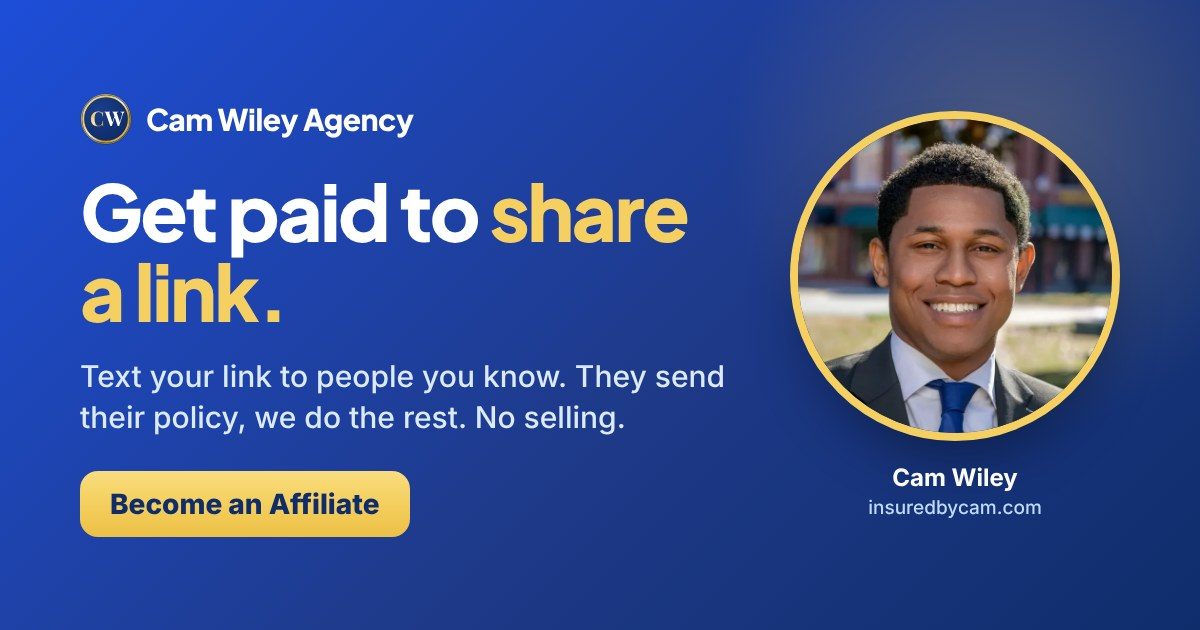
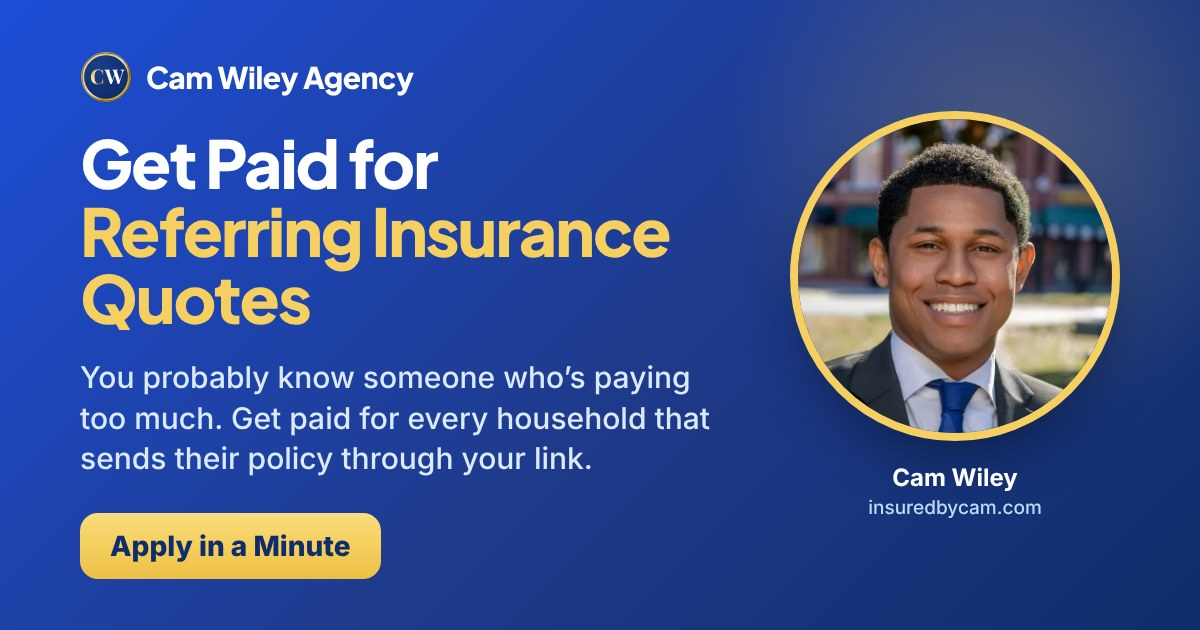
Affiliates share card matches the page: heading, body and Apply in a Minute
Claude-Session: https://claude.ai/code/session_01ALNZAc94dnod2U2WV7PUZi

Changed region(s): [[0.0617, 0.0603, 0.5858, 0.5429], [0.0617, 0.573, 0.6167, 0.9349]]

diff --git a/vite.config.js b/vite.config.js
@@ -6,17 +6,18 @@ import { resolve } from 'node:path';
 
 // Link previews (iMessage, Facebook) read the HTML before any JavaScript runs, so every
 // route shows index.html's share card. Pages that need their own card get a copy of the
-// built index.html with its own title, description and image, served by a rewrite in
+// built index.html with its own title, description and image (matching the page's
+// hero copy; update both if the hero changes), served by a rewrite in
 // vercel.json (e.g. /affiliates → /affiliates.html). Same app, different preview.
 const SITE = 'https://insuredbycam.com';
 const SHARE_PAGES = [
   {
     file: 'affiliates.html', path: '/affiliates',
     title: 'Become an Affiliate | Cam Wiley Agency',
-    ogTitle: 'Get paid to share a link.',
-    description: 'Text your link to people you know. They send their insurance policy, we do the rest. No selling. You get paid for every household that sends one.',
+    ogTitle: 'Get Paid for Referring Insurance Quotes',
+    description: 'You probably know someone who’s paying too much for insurance. As an agency affiliate, you get your own Rate Check link, and you’re paid for every household that sends their declarations page through it, whether or not they buy.',
     image: '/og-affiliates.jpg',
-    imageAlt: 'Get paid to share a link: become a Cam Wiley Agency affiliate',
+    imageAlt: 'Get Paid for Referring Insurance Quotes: Cam Wiley Agency affiliate program',
   },
 ];
 
